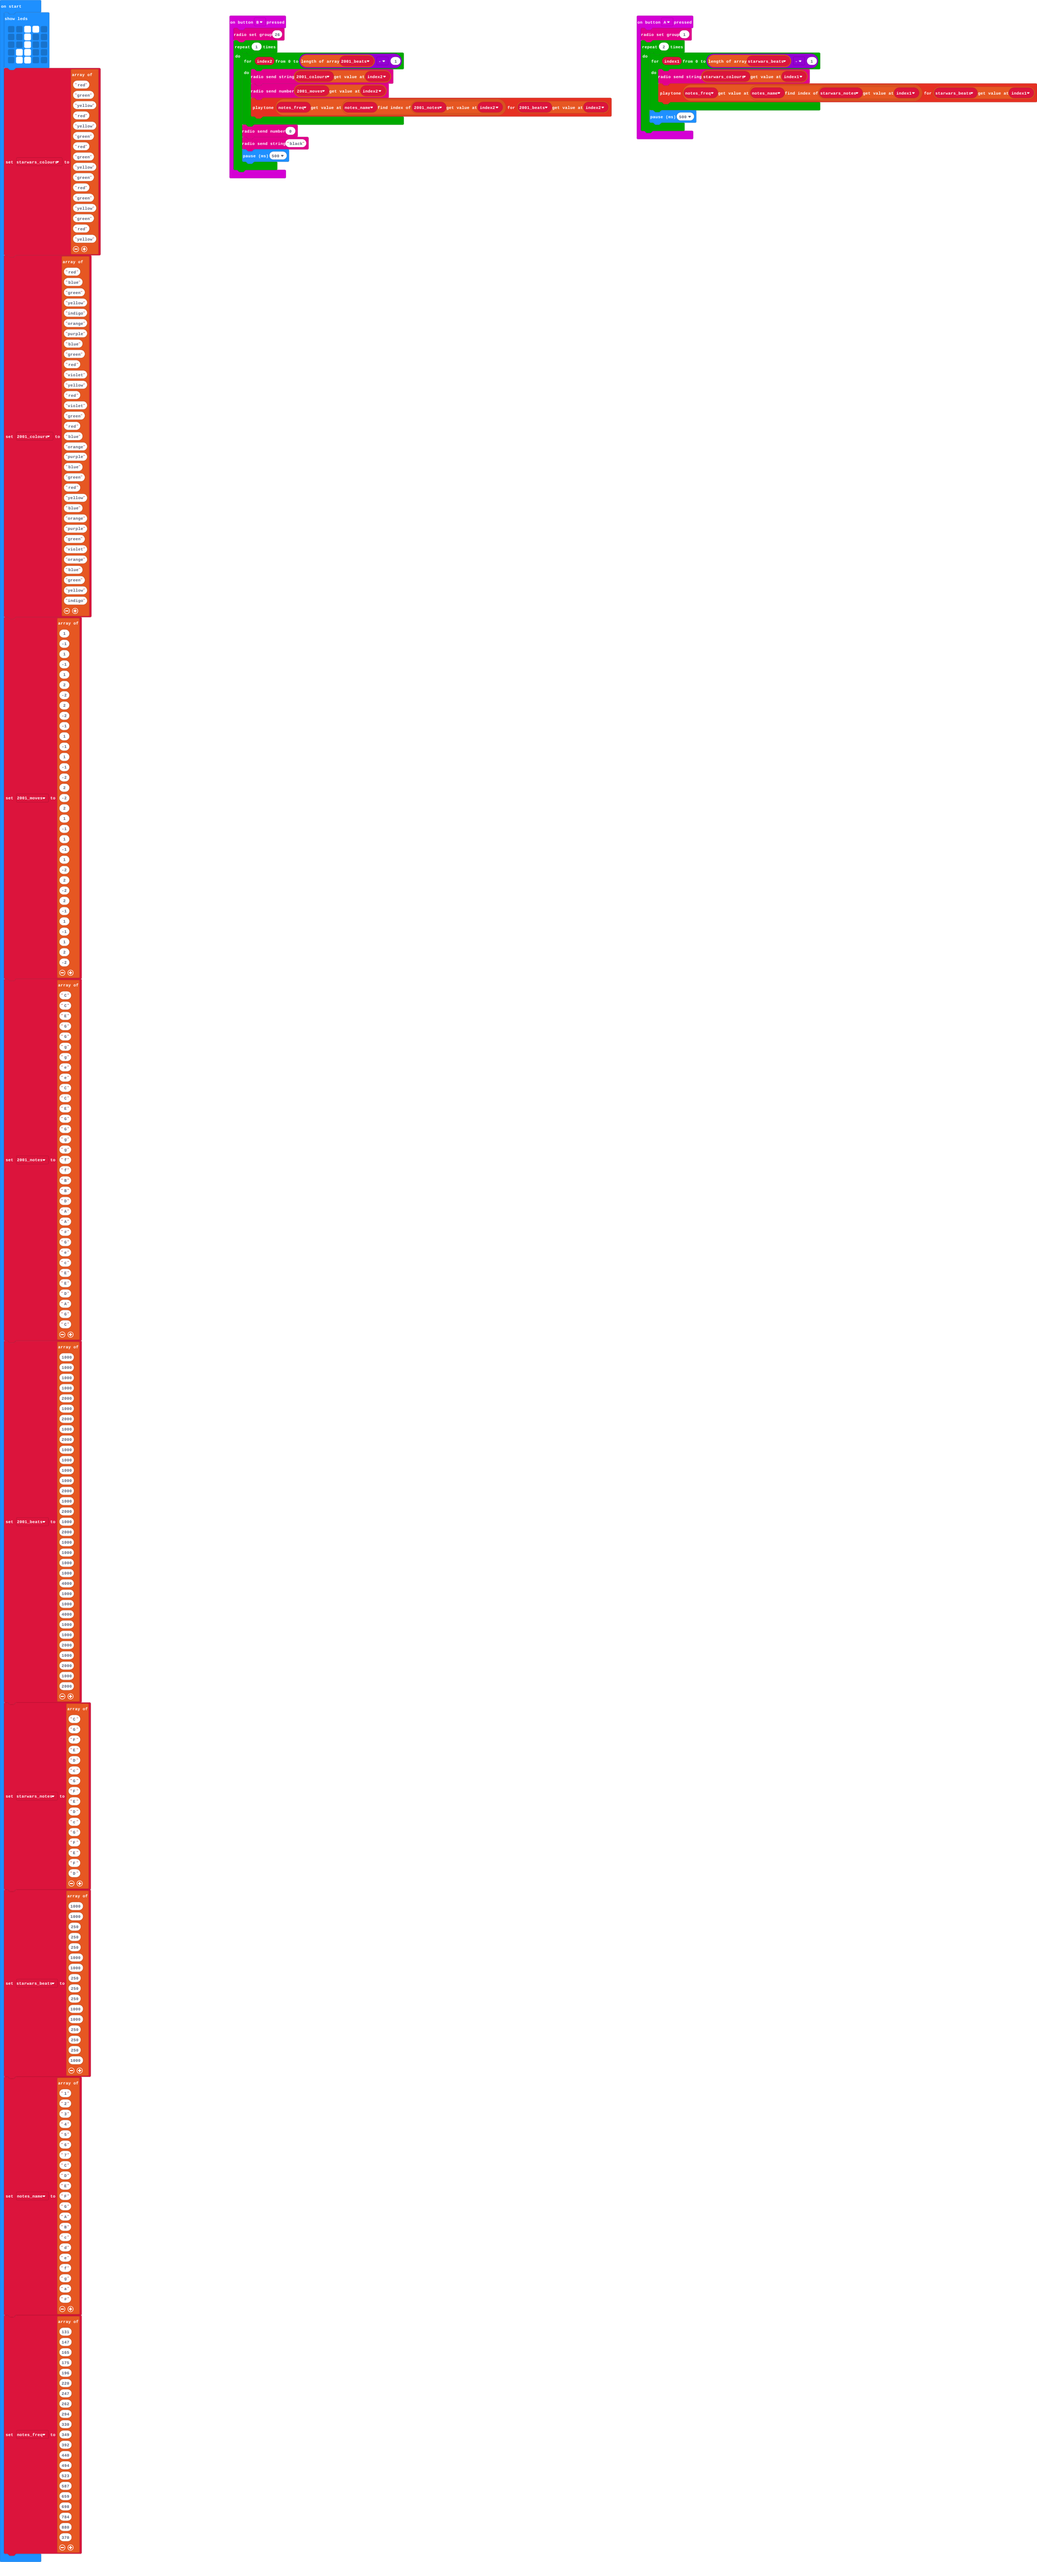
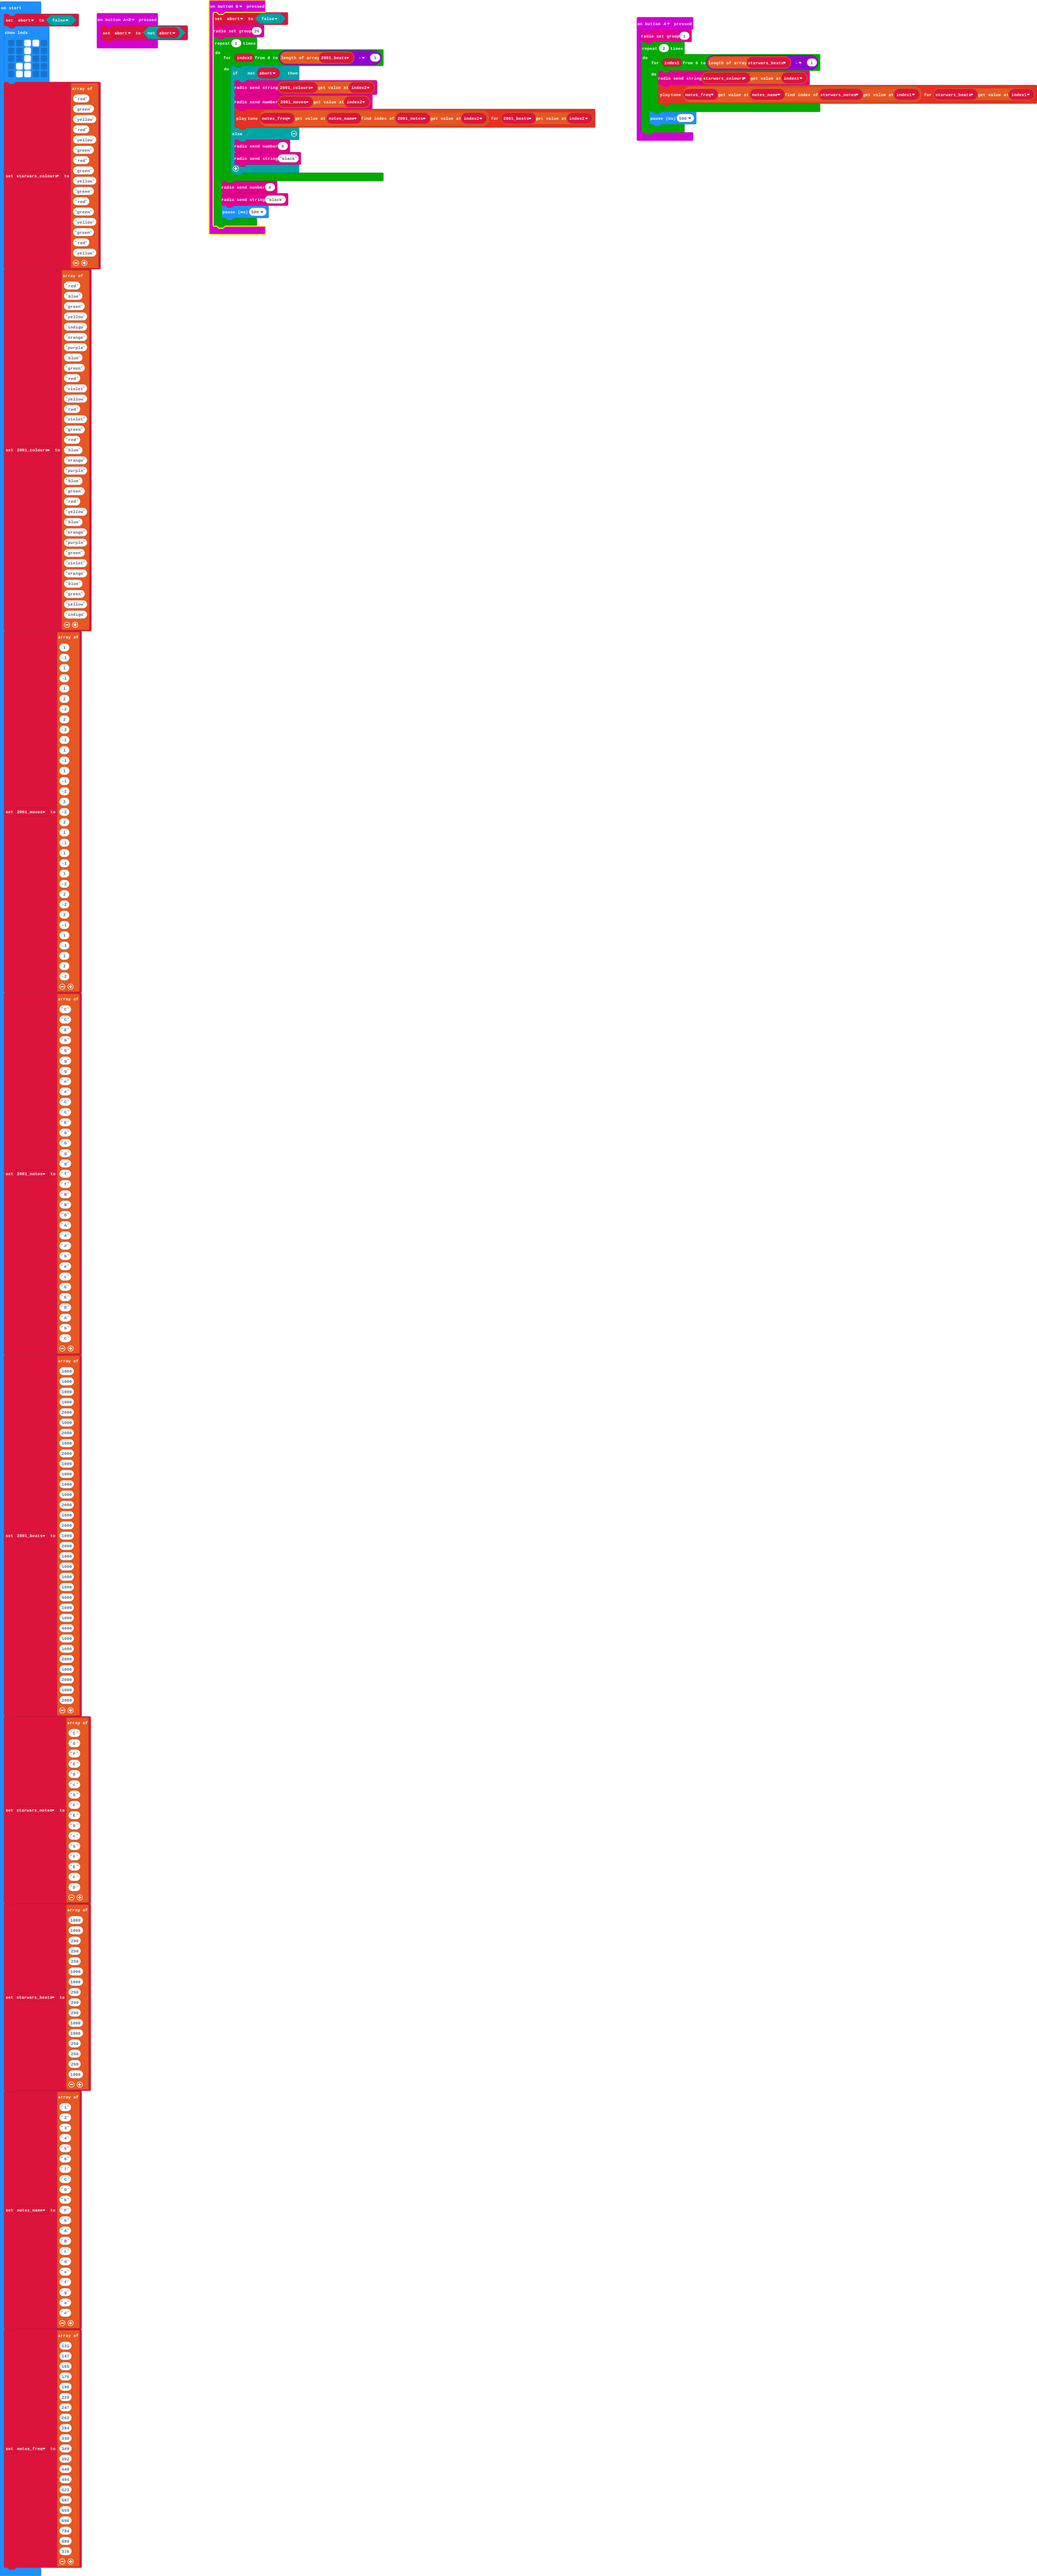
Update main.blocks, main.ts

diff --git a/main.ts b/main.ts
@@ -1,10 +1,19 @@
+input.onButtonPressed(Button.AB, function () {
+    abort = !(abort)
+})
 input.onButtonPressed(Button.B, function () {
+    abort = false
     radio.setGroup(26)
     for (let index = 0; index < 1; index++) {
         for (let index2 = 0; index2 <= _2001_beats.length - 1; index2++) {
-            radio.sendString("" + (_2001_colours[index2]))
-            radio.sendNumber(_2001_moves[index2])
-            music.playTone(notes_freq[notes_name.indexOf(_2001_notes[index2])], _2001_beats[index2])
+            if (!(abort)) {
+                radio.sendString("" + (_2001_colours[index2]))
+                radio.sendNumber(_2001_moves[index2])
+                music.playTone(notes_freq[notes_name.indexOf(_2001_notes[index2])], _2001_beats[index2])
+            } else {
+                radio.sendNumber(0)
+                radio.sendString("black")
+            }
         }
         radio.sendNumber(0)
         radio.sendString("black")
@@ -30,6 +39,8 @@ let _2001_notes: string[] = []
 let _2001_moves: number[] = []
 let _2001_colours: string[] = []
 let starwars_colours: string[] = []
+let abort = false
+abort = false
 basic.showLeds(`
     . . # # .
     . . # . .
